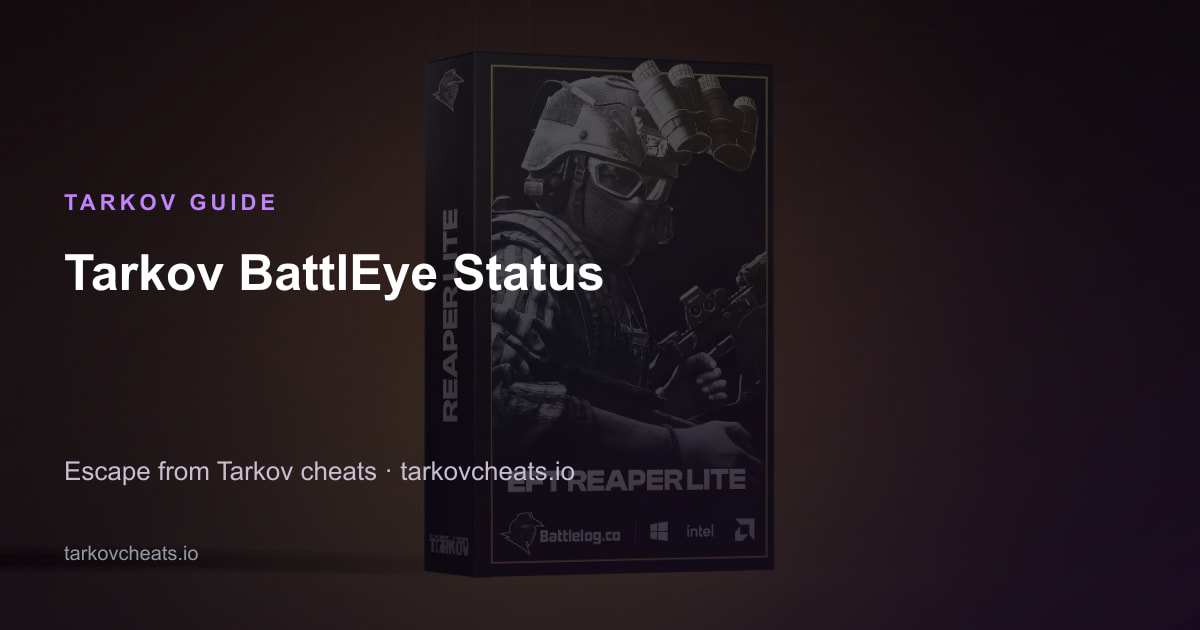
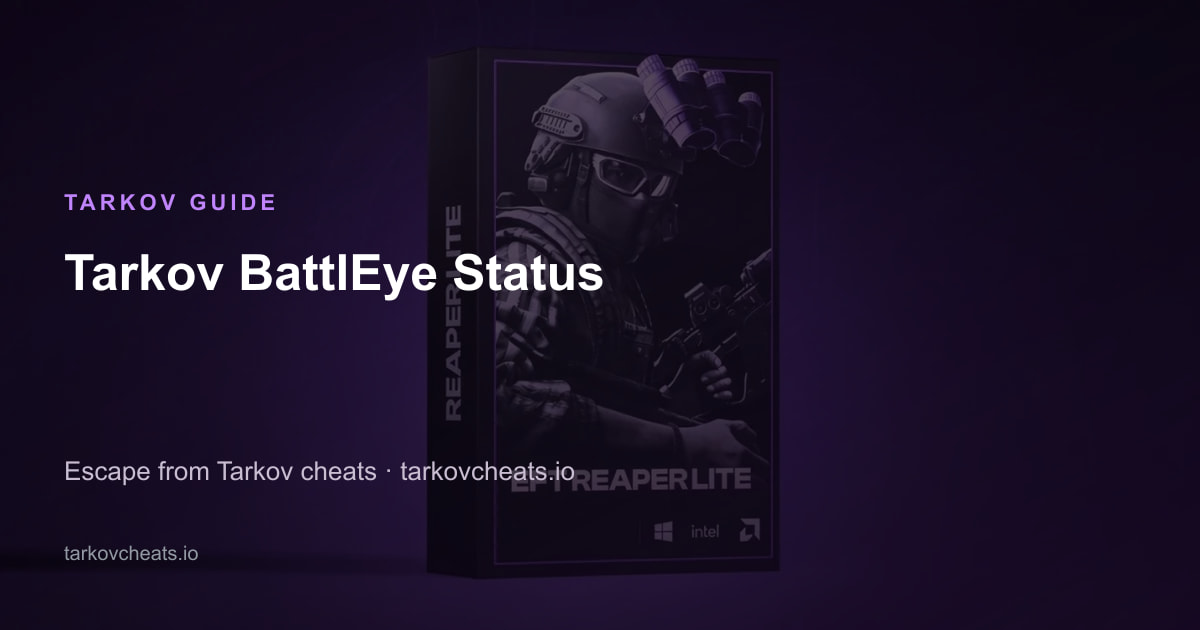
Drop Apex mentions and rebrand Reaper art without Battlelog.
Purple-toned home/product box art plus refreshed OG JPEGs keep SEO thumbnails in sync.

diff --git a/src/data/support.ts b/src/data/support.ts
@@ -38,7 +38,7 @@ export const SUPPORT_TOPICS: SupportTopic[] = [
     heading: 'What we support',
     body: [
       'Supported: Escape from Tarkov on Windows PC — Aimbot, ESP, wallhack, loot filter, radar, HWID spoofer, menu, setup and status questions.',
-      'Not supported: other games (including Warzone or Apex), cracked loaders or third-party mirrors.',
+      'Not supported: other games, cracked loaders or third-party mirrors.',
       'Policy pages: Privacy, Terms and Refunds are linked in the footer.',
     ],
   },

diff --git a/src/data/media.ts b/src/data/media.ts
@@ -8,7 +8,7 @@ export type SeoMediaItem = {
   videoDescription?: string
 }
 
-/** Battlelog EFT Reaper product art + menu stills (self-hosted). */
+/** EFT Reaper product art + menu stills (self-hosted). */
 export const TARKOV_HERO = '/media/tarkov-reaper-full.webp'
 export const TARKOV_SOLDIER = '/media/tarkov-reaper-full.webp'
 export const TARKOV_GAMEPLAY = '/media/tarkov-exfil-esp.gif'

diff --git a/src/data/faqs.ts b/src/data/faqs.ts
@@ -11,7 +11,7 @@ export const SITE_FAQS: FaqItem[] = [
   },
   {
     q: 'Do you cover other games?',
-    a: 'No. tarkovcheats.io sells Escape from Tarkov cheats only — no Warzone, Apex, Fortnite or filler catalog titles.',
+    a: 'No. tarkovcheats.io sells Escape from Tarkov (EFT) cheats only — one product, no multi-game catalog.',
   },
   {
     q: 'Is Aimbot the main feature?',
